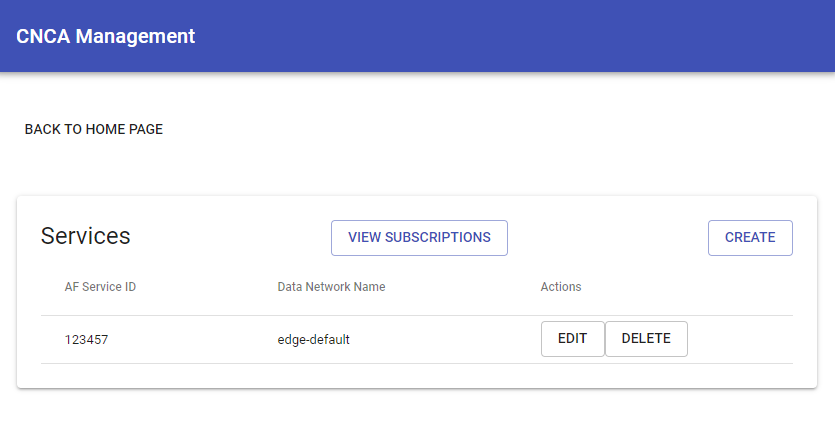
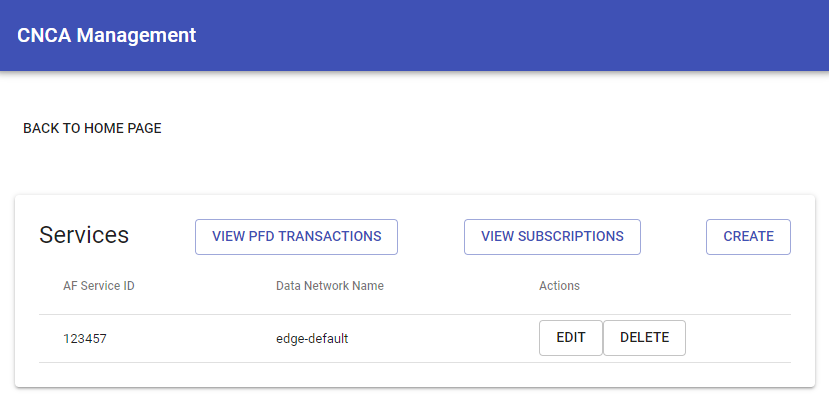
Updated with PFD information

diff --git a/doc/applications-onboard/using-openness-cnca.md b/doc/applications-onboard/using-openness-cnca.md
@@ -411,7 +411,7 @@ policy:
 
    * Edge services registration home page:
       sample url: http://<cnca_ui_ip>:3020/services
-      ![Edge services operations homepage](using-openness-cnca-images/HomePage.png)
+      ![Edge services operations homepage](using-openness-cnca-images/oam_services_home.png)
 
    * Registration of a new edge service offered by UPF (associated with edge-node)
       ![Edge services create](using-openness-cnca-images/oam_services_create.png)
@@ -522,3 +522,33 @@ Note: One of individual UE identifier (i.e. "gpsi", "ipv4Addr", "ipv6Addr" or ma
 |suppFeat|Indicates the list of Supported features used as described in subclause 5.4.4. This attribute shall be provided in the POST request and in the response of successful resource creation. Values 1 - Notification_websocket 2 -  Notification_test_event |
 |requestTestNotification|Set to true by the AF to request the NEF to send a test notification as defined in subclause 5.2.5.3 of 3GPP TS 29.122 [4]. Set to false or omitted otherwise|
 |websockNotifConfig|Configuration parameters to set up notification delivery over Websocket protocol|
+
+#### Packet Flow Description operation with 5G Core (through AF interface)
+
+   * Edge traffic PFD transaction submission homepage
+      sample url: http://<cnca_ui_ip>:3020/pfds
+      ![PFD transaction services homepage](using-openness-cnca-images/af_pfd_transaction_home.png)
+
+   * Edge PFD transaction submissions with 5G-Core (NEF)
+      click on the "Create" button on the above homepage
+      ![Subscription service create](using-openness-cnca-images/pfd_transaction_create.png)
+
+   * Display of submitted Edge PFD transaction
+      ![PFD transaction service display](using-openness-cnca-images/pfd_transaction_display.png)
+
+   * To edit a submitted edge PFD transaction
+      ![PFD transaction service edit](using-openness-cnca-images/pfd_transaction_edit.png)
+
+   * To edit a submitted edge PFD transaction application
+      ![PFD transaction service patch](using-openness-cnca-images/pfd_transaction_edit_appID.png)
+
+   * To delete a submitted edge PFD transaction
+      ![PFD transaction service delete](using-openness-cnca-images/pfd_transaction_delete.png)
+
+   * To delete a submitted edge PFD transaction application
+      ![PFD transaction service delete](using-openness-cnca-images/pfd_transaction_delete_appID.png)
+
+## Packet Flow Description transaction description
+
+This sections describes the paramters that are used in the Packet flow description POST request. Groups mentioned as Mandatory needs to be provided, in the absence of the Mandatory parameters a 400 response would be returned.
+
